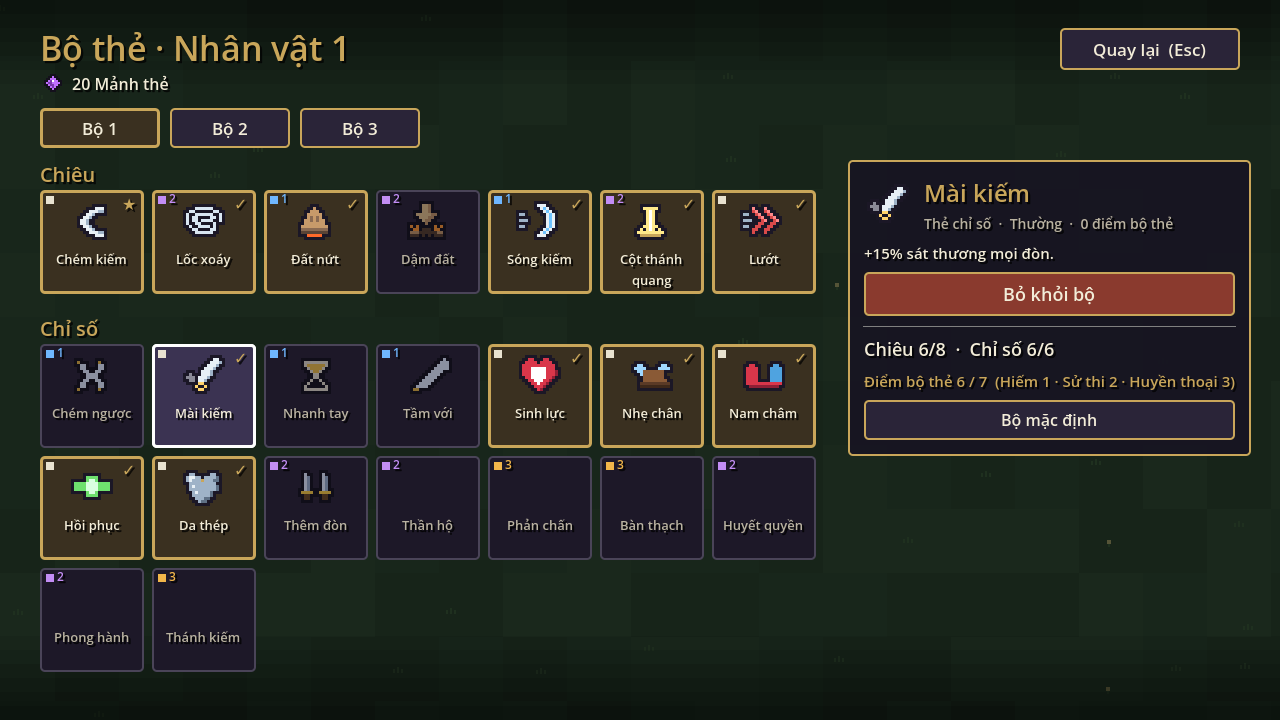
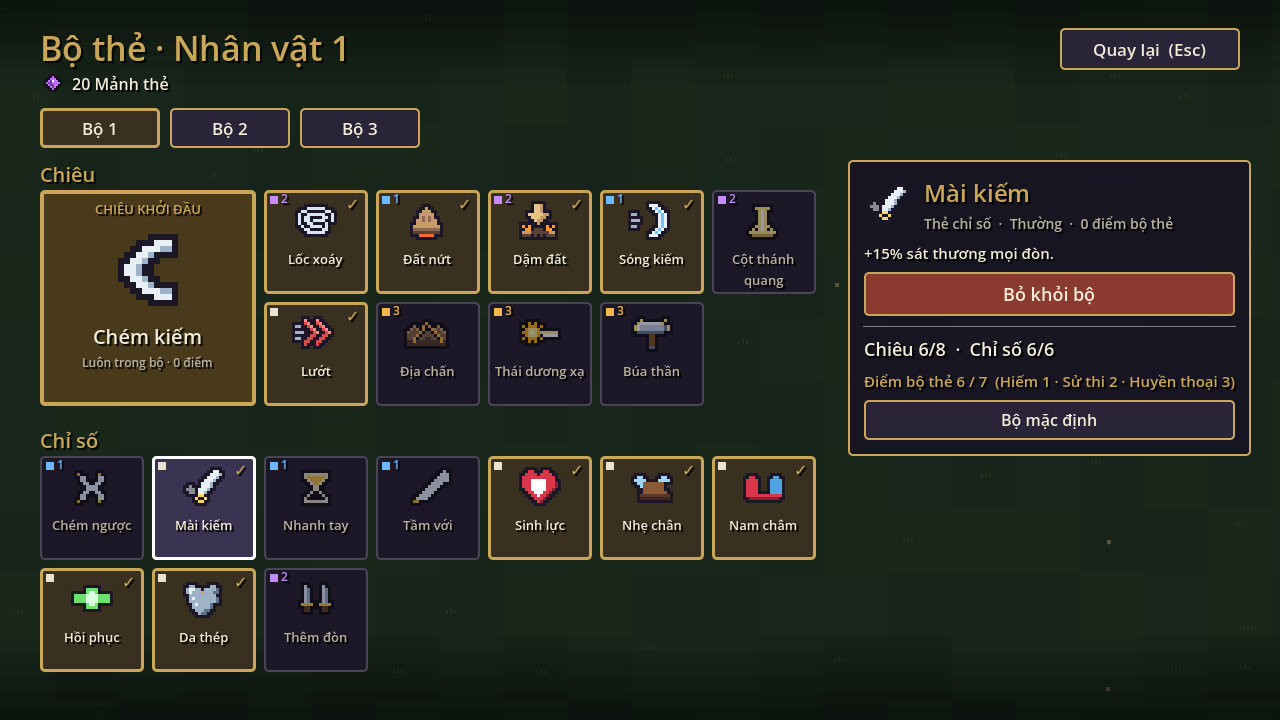
feat(deck): starting skill gets its own big tile
User 2026-11-20: the default skill must stand out. It is now a 2x2
gold tile ("CHIÊU KHỞI ĐẦU", 96 px icon, "Luôn trong bộ · 0 điểm")
ahead of the skill grid (5 columns beside it), like Hearthstone's hero
power; its detail shows a gold note instead of a disabled remove
button with a red reason.

Verified: gamekit test: 334 passed, 0 failed; shot evidence/deck-starter/01-starter.png
Design: design/ux/deck.md

Changed region(s): [[0.0312, 0.2444, 0.6562, 0.9472], [0.3125, 0.6722, 0.3438, 0.7333], [0.2812, 0.6111, 0.3125, 0.6722]]

diff --git a/design/ux/deck.md b/design/ux/deck.md
@@ -8,6 +8,7 @@ Luật: `design/skill-tree-v2.md` §2. Mở từ sảnh (nút "Bộ thẻ"). `sr
 |---|---|
 | Trình dựng bộ bài: [Archidekt grid view](https://archidekt.com/news/3108703), [Table Commander builder](https://beta.tablecommander.com/docs/decks/builder), [MythicHub](https://mythichub.com/blog/deckbuilder-evolved) | Bộ sưu tập dạng **lưới có ảnh thẻ**; thẻ đã chọn **viền vàng**, cùng một cách đánh dấu ở mọi chỗ; có dạng danh sách gọn cho bộ đang sửa. |
 | Hearthstone ([deck layout](https://hearthstone.wiki.gg/wiki/Template:Deck_layout/row_layout)) | Bộ sưu tập một bên, **danh sách bộ đang dựng** bên kia, đếm số thẻ còn trống. |
+| Hearthstone ([Hero Power](https://hearthstone.wiki.gg/wiki/Hero_Power)), Vampire Survivors ([nhân vật và vũ khí khởi đầu](https://vampire-survivors.fandom.com/wiki/Characters)) | Thứ luôn có (hero power / vũ khí khởi đầu) **đứng riêng, to hơn**, không lẫn trong bộ sưu tập và không có nút bỏ. (2026-11-20) |
 | Last Epoch ([chuyên môn chiêu](https://maxroll.gg/last-epoch/resources/passives-and-skills)) | Từ thẻ chiêu mở thẳng **cây của chiêu đó**. |
 
 ## Bố cục
@@ -15,7 +16,9 @@ Luật: `design/skill-tree-v2.md` §2. Mở từ sảnh (nút "Bộ thẻ"). `sr
 - Trên: "Bộ thẻ · <tên>", ví (Mảnh thẻ), "Quay lại (Esc)" bên phải. Dưới tiêu đề: 3 tab **Bộ 1 / Bộ 2 / Bộ 3** (tab
   đang dùng viền vàng; bấm là dùng bộ đó).
 - Trái: bộ sưu tập, hai nhóm **Chiêu** rồi **Chỉ số**, mỗi thẻ một ô (icon 48, tên dưới). Thẻ trong bộ: viền vàng + dấu ✓;
-  chiêu khởi đầu có khoá. Bấm ô: chọn để xem chi tiết; nút "Thêm vào bộ" / "Bỏ khỏi bộ" ở khung chi tiết.
+  **chiêu khởi đầu** là một ô to 2×2 riêng đầu nhóm Chiêu (nền vàng, icon 96, nhãn "CHIÊU KHỞI ĐẦU",
+  "Luôn trong bộ · 0 điểm"); các chiêu khác lưới 5 cột bên cạnh. Khung chi tiết của nó không có nút bỏ, chỉ
+  một dòng vàng "★ Chiêu khởi đầu: luôn trong bộ" (người dùng 2026-11-20). Bấm ô: chọn để xem chi tiết; nút "Thêm vào bộ" / "Bỏ khỏi bộ" ở khung chi tiết.
 - Phải: khung chi tiết thẻ (icon, tên, loại, mô tả, lý do không thêm/bỏ được) và, với thẻ chiêu có cây, dòng
   "Cây thẻ: x/y điểm" + nút **Cây thẻ**. Dưới: đếm "Chiêu a/8 · Chỉ số b/6" và nút **Bộ mặc định**.
 - Mọi thay đổi lưu ngay.
